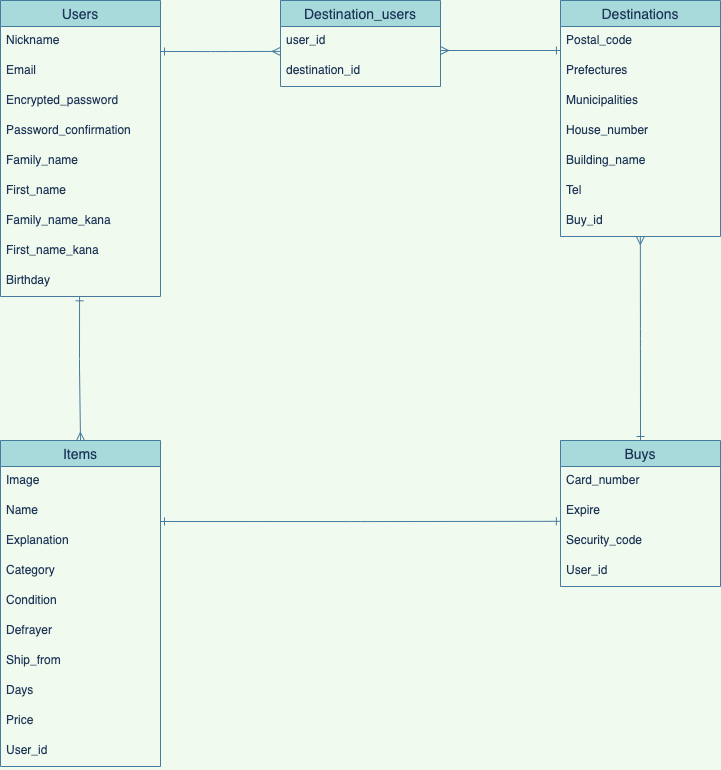
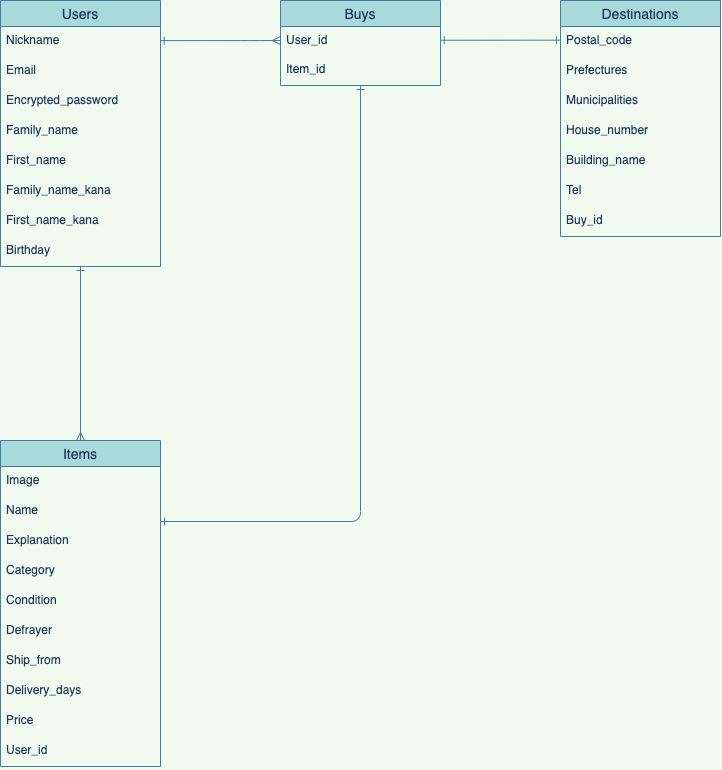
READMとER図の修正

diff --git a/README.md b/README.md
@@ -2,37 +2,35 @@
 
 ## users テーブル
 
-| Column                | Type   | Options     |
-| --------------------- | ------ | ----------- |
-| nickname              | string | null: false |
-| email                 | string | null: false |
-| encrypted_password    | string | null: false |
-| password_confirmation | string | null: false |
-| family_name           | string | null: false |
-| first_name            | string | null: false |
-| family_name_kana      | string | null: false |
-| first_name_kana       | string | null: false |
-| birthday              | date   | null: false |
+| Column             | Type   | Options                   |
+| ------------------ | ------ | ------------------------- |
+| nickname           | string | null: false               |
+| email              | string | null: false, unique: true |
+| encrypted_password | string | null: false               |
+| family_name        | string | null: false               |
+| first_name         | string | null: false               |
+| family_name_kana   | string | null: false               |
+| first_name_kana    | string | null: false               |
+| birthday           | date   | null: false               |
 
 ### Association
 
 - has_many :items
 - has_many :buys
-- has_many :destinations, through: :destination_users
 
 ## items テーブル
 
-| Column      | Type       | Options                        |
-| ----------- | ---------- | ------------------------------ |
-| name        | string     | null: false                    |
-| explanation | text       | null: false                    |
-| category    | string     | null: false                    |
-| condition   | string     | null: false                    |
-| defrayer    | string     | null: false                    |
-| ship_from   | string     | null: false                    |
-| days        | string     | null: false                    |
-| price       | integer    | null: false                    |
-| user        | references | null: false, foreign_key: true |
+| Column           | Type       | Options                        |
+| ---------------- | ---------- | ------------------------------ |
+| name             | string     | null: false                    |
+| explanation      | text       | null: false                    |
+| category_id      | integer    | null: false                    |
+| condition_id     | integer    | null: false                    |
+| defrayer_id      | integer    | null: false                    |
+| ship_from_id     | integer    | null: false                    |
+| delivery_days_id | integer    | null: false                    |
+| price            | integer    | null: false                    |
+| user             | references | null: false, foreign_key: true |
 
 ### Association
 
@@ -43,42 +41,27 @@
 
 | Column        | Type       | Options                        |
 | ------------- | ---------- | ------------------------------ |
-| card_number   | integer    | null: false                    |
-| expire        | integer    | null: false                    |
-| security_code | integer    | null: false                    |
 | user          | references | null: false, foreign_key: true |
+| item          | references | null: false, foreign_key: true |
 
 ### Association
 
 - belongs_to :user
 - belongs_to :item
-- has_many :destinations
+- has_one :destination
 
 ## destinations テーブル
 
 | Column         | Type       | Options                        |
 | -------------- | ---------- | ------------------------------ |
-| postal_code    | integer    | null: false                    |
+| postal_code    | string     | null: false                    |
 | prefectures    | string     | null: false                    |
 | municipalities | string     | null: false                    |
 | house_number   | string     | null: false                    |
 | building_name  | string     |                                |
-| tel            | integer    | null: false                    |
+| tel            | string     | null: false                    |
 | buy            | references | null: false, foreign_key: true |
 
 ### Association
 
-- has_many :users, through: :destination_users
 - belongs_to :buy
-
-## destination_users テーブル
-
-| Column      | Type       | Options                        |
-| ----------- | ---------- | ------------------------------ |
-| user        | references | null: false, foreign_key: true |
-| destination | references | null: false, foreign_key: true |
-
-### Association
-
-- belongs_to :user
-- belongs_to :destination
